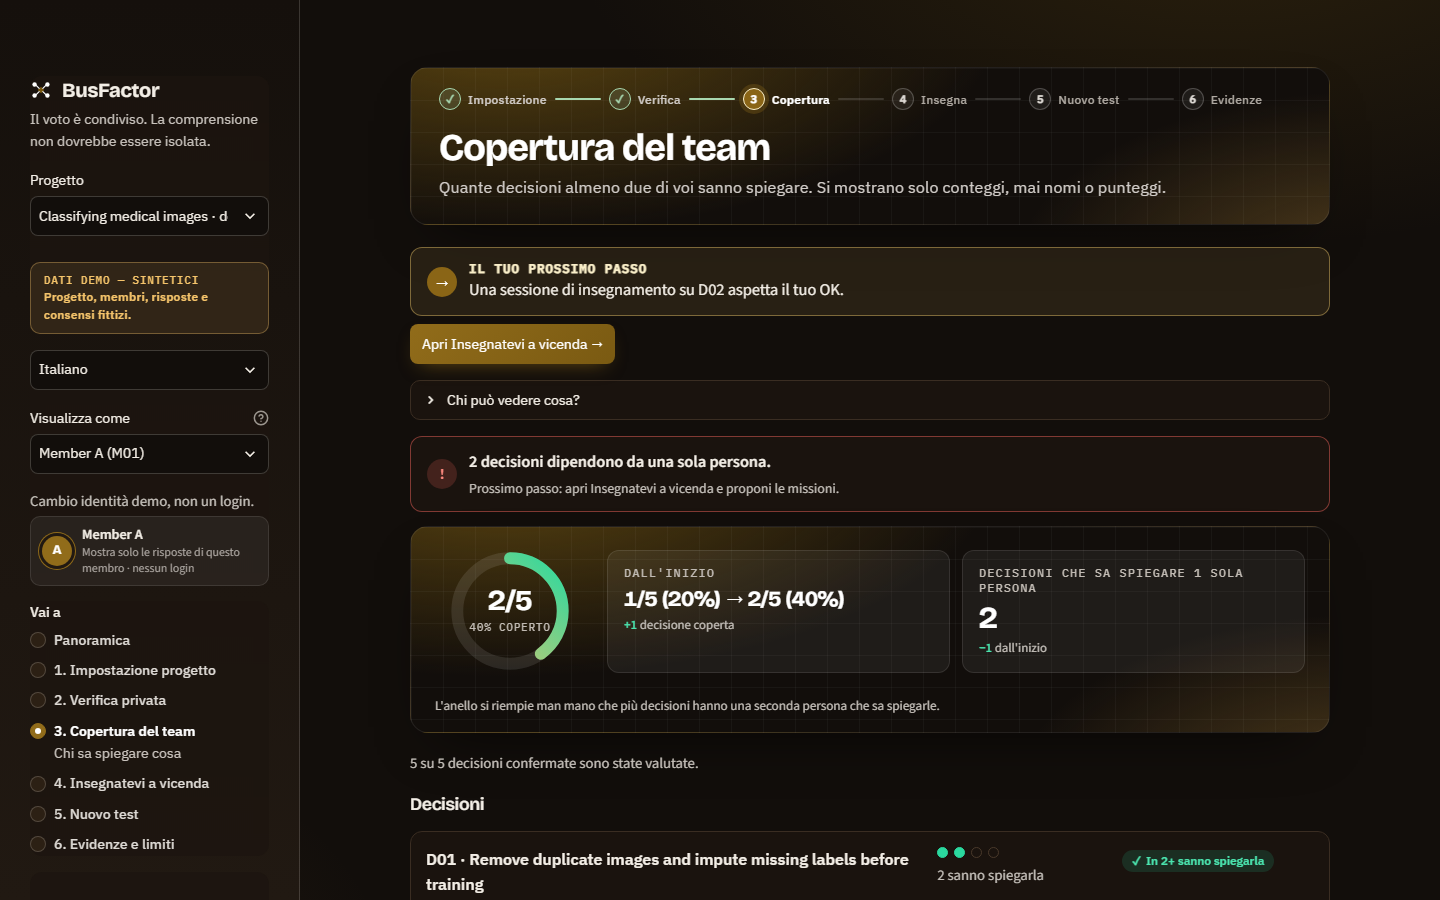
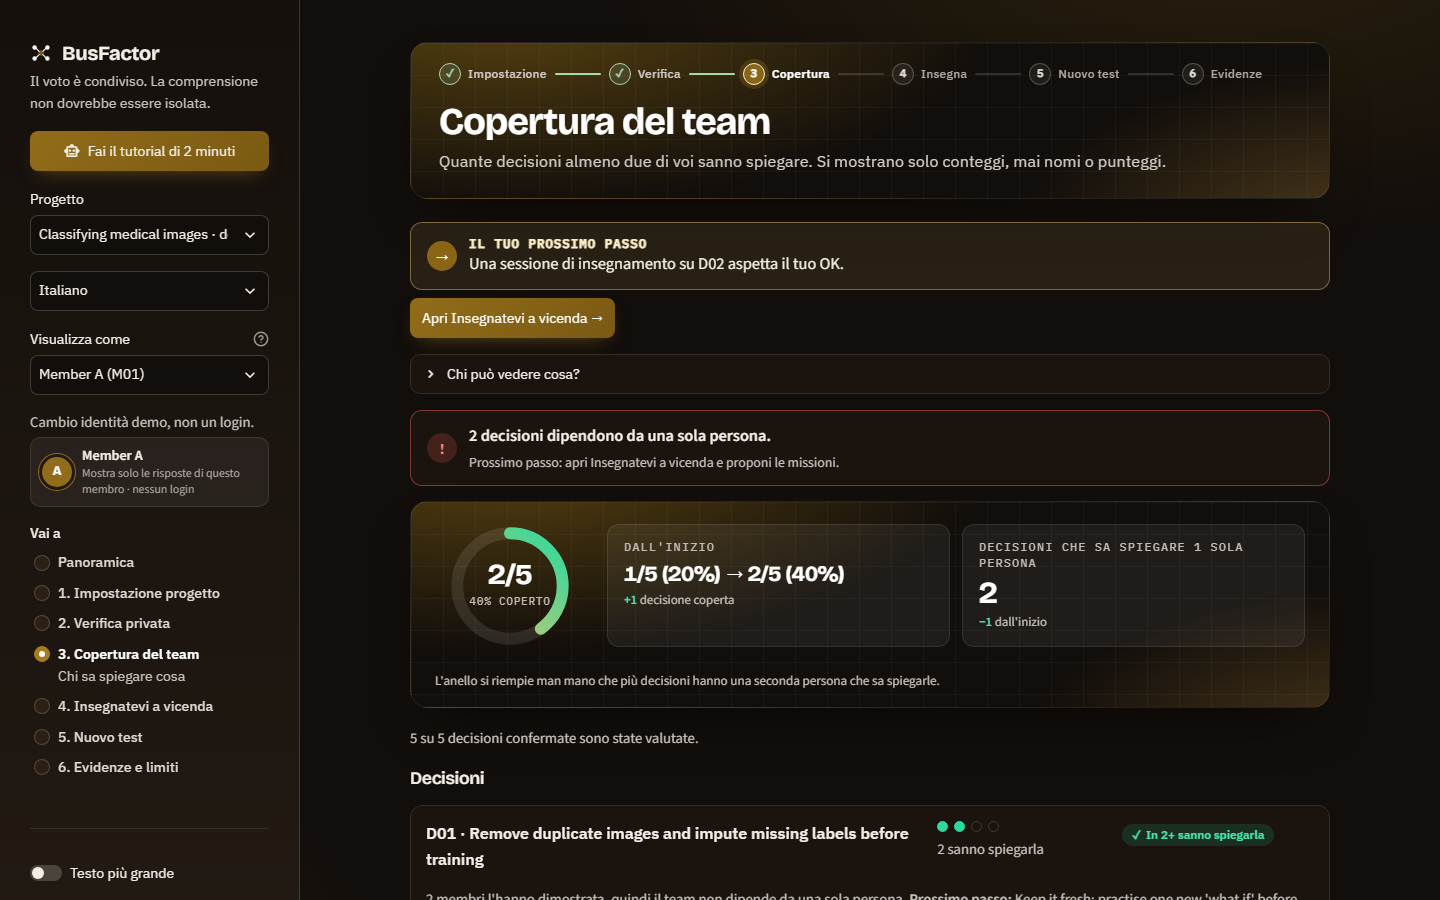
Polish README and overview UI

diff --git a/ui/widgets.py b/ui/widgets.py
@@ -258,10 +258,11 @@ def next_step_card(extra=None) -> None:
          f'<div><b>{label}</b><span>{esc(text)}</span></div></div>')
     show_next = current_page_index() != step.page
     if show_next and extra:
-        first, second, _ = st.columns([3, 3, 6])
-        with first:
-            st.button(f"{t(step.button)} \u2192", key="next-step", type="primary", on_click=go_to, args=(step.page,))
-        with second:
+        left, right = st.columns(2)           # two equal halves, as wide as the card above
+        with left:
+            st.button(f"{t(step.button)} \u2192", key="next-step", type="primary", on_click=go_to, args=(step.page,),
+                      width="stretch")
+        with right:
             extra()
     elif show_next:
         st.button(f"{t(step.button)} \u2192", key="next-step", type="primary", on_click=go_to, args=(step.page,))

diff --git a/ui/pages/overview.py b/ui/pages/overview.py
@@ -52,7 +52,8 @@ def render() -> None:
          f'<div class="bf-kpis">{tiles}</div></div>')
 
     def guided_tour_button() -> None:
-        st.button(f"{t('Start the guided tour')} \u2192", key="tour", type="primary", on_click=go_to, args=(3,))
+        st.button(f"{t('Start the guided tour')} \u2192", key="tour", type="primary", on_click=go_to, args=(3,),
+                  width="stretch")
 
     next_step_card(extra=guided_tour_button if orc.is_demo_project() else None)
     rows = "".join(

diff --git a/README.md b/README.md
@@ -148,8 +148,8 @@ The loop above, as the app shows it. All screenshots use the synthetic demo data
 | **5. Defense Retest**: a new question, no hints<br>![Defense Retest](docs/screenshots/06_defense_retest.png) | **6. Evidence & Limits**: sources, action log and limits<br>![Evidence and Limits](docs/screenshots/07_evidence_limits.png) |
 | **After the retest**: coverage 2/5, one single point of failure fewer<br>![Coverage after the retest](docs/screenshots/08_coverage_after_retest.png) | **Italian interface**: same page, same numbers<br>![Italian interface](docs/screenshots/09_italian_coverage.png) |
 | **Human review queue**: answers without names, scored by a reviewer<br>![Review queue](docs/screenshots/10_review_queue.png) | **Defense simulator**: a mock oral, practice only<br>![Defense simulator](docs/screenshots/12_defense_simulator.png) |
-| **Empty states** say what to do next<br>![Empty state](docs/screenshots/13_empty_state.png) | **On a phone**: the verdict first, stats stacked<br><img src="docs/screenshots/11_mobile_coverage.png" alt="Team Coverage on a phone" width="260"> |
-| **Teaching session**: checklist and conversation starters<br>![Teaching session](docs/screenshots/14_teaching_session.png) | **The retest follows the session**: until it is held, the page says so<br>![Retest gate](docs/screenshots/15_retest_gate.png) |
+| **Empty states** say what to do next<br>![Empty state](docs/screenshots/13_empty_state.png) | **Teaching session**: checklist and conversation starters<br>![Teaching session](docs/screenshots/14_teaching_session.png) |
+| **The retest follows the session**: until it is held, the page says so<br>![Retest gate](docs/screenshots/15_retest_gate.png) | **On a phone**: the verdict first, stats stacked<br><img src="docs/screenshots/11_mobile_coverage.png" alt="Team Coverage on a phone" width="260"> |
 
 There is also a static landing page, `web/index.html`, with a 3D knowledge map (`web/knowledge_map.html`). Open it in a browser; "Open the demo" links to the Streamlit app.
 
